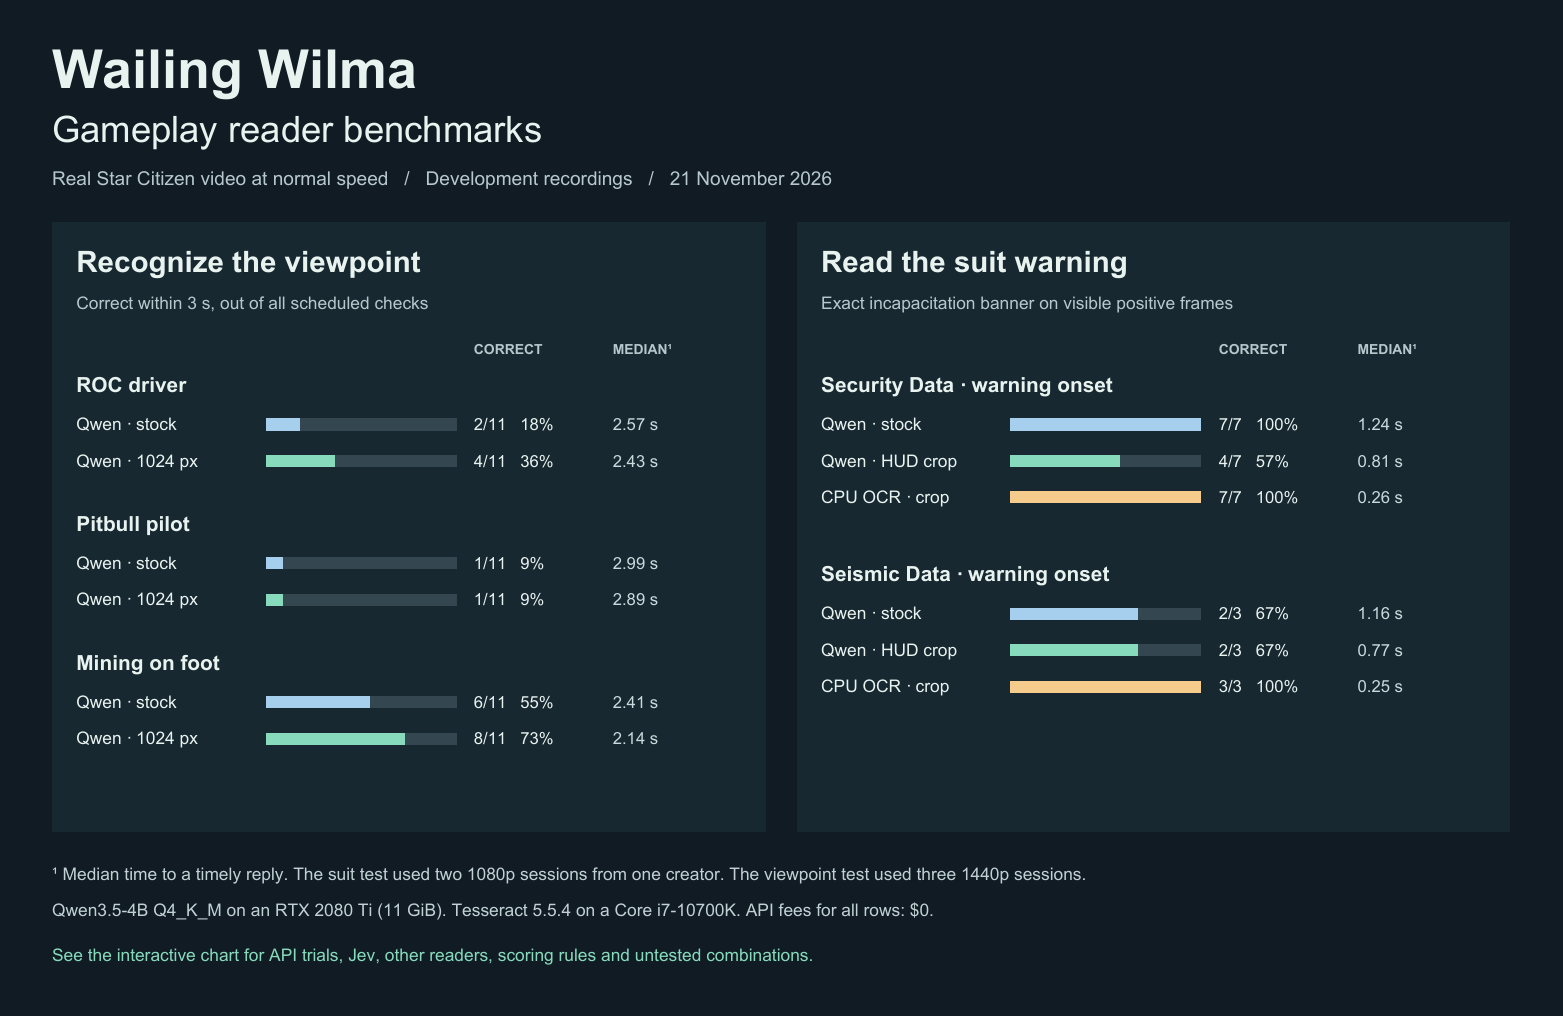
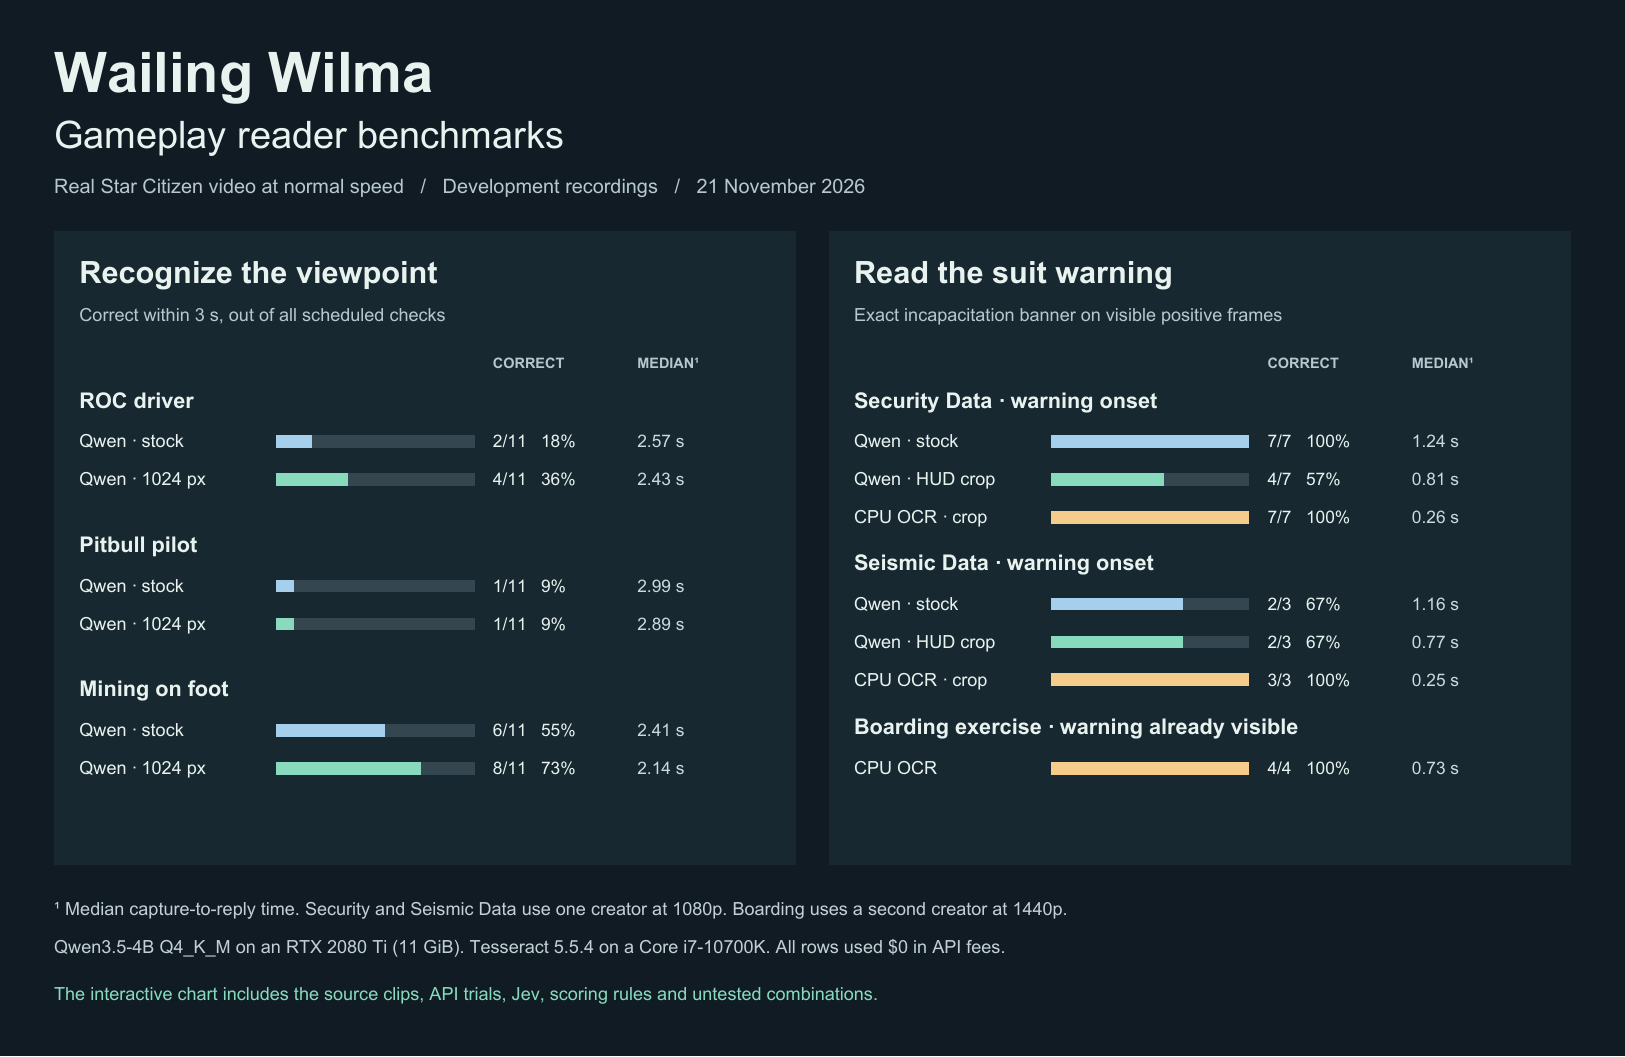
Measure the suit warning on a second recording

diff --git a/tools/reader_chart.html b/tools/reader_chart.html
@@ -36,9 +36,9 @@ const panels = {
   banner: {
     text:"How often did the reader identify the visible “You Are Incapacitated” banner?",
     names:["Qwen, full frame","Qwen, HUD crop","Tesseract, HUD crop"],
-    groups:[["Security Data · warning onset","nov21-pair-onyx-stock","nov21-banner-training-region","nov21-banner-training-ocr"],["Seismic Data · warning onset","nov21-banner-fresh-stock","nov21-banner-fresh-region","nov21-banner-fresh-ocr"]],
+    groups:[["Security Data · warning onset","nov21-pair-onyx-stock","nov21-banner-training-region","nov21-banner-training-ocr"],["Seismic Data · warning onset","nov21-banner-fresh-stock","nov21-banner-fresh-region","nov21-banner-fresh-ocr"],["Boarding exercise · warning already visible",null,null,"nov21-boarding-released-ocr"]],
     den:"scored_count",
-    caption:"¹ Median capture-to-reply on timely checks. Accuracy covers visible positive frames at 1080p. Two recordings from one creator. No live speech was measured. Qwen3.5-4B used an RTX 2080 Ti, Tesseract 5.5.4 used a Core i7-10700K. $0 API fees."
+    caption:"¹ Median capture-to-reply on timely checks. Security and Seismic Data are two 1080p recordings from one creator. Boarding is a second creator at 1440p. Accuracy covers reviewed frames with a visible warning. No live speech was measured. Qwen3.5-4B used an RTX 2080 Ti, Tesseract 5.5.4 used a Core i7-10700K. $0 API fees."
   }
 };
 function draw(key) {

diff --git a/docs/gameplay-tests.md b/docs/gameplay-tests.md
@@ -2,7 +2,7 @@
 
 These runs used real gameplay at normal speed. The tests used 2560 × 1440 unless a result specifies another resolution. Reviewers checked the visible HUD before comparing model replies. The deadline was three seconds per frame unless stated otherwise.
 
-[Download the interactive benchmark chart](https://github.com/Fowlplaychiken/Wailing-Wilma/releases/download/benchmarks-2026-11-21/wilma-reader-results.html) and open it in your browser. It works offline. Search by model, task or reader combination to see the scoring rule, timing, recorded cost and which comparisons still need a run.
+[Download the interactive benchmark chart](https://github.com/Fowlplaychiken/Wailing-Wilma/releases/download/benchmarks-2026-11-21.2/wilma-reader-results.html) and open it in your browser. It works offline. Search by model, task or reader combination to see the scoring rule, timing, recorded cost and which comparisons still need a run.
 
 ![Paired tests on an RTX 2080 Ti and Core i7-10700K. A smaller image helped the local model recognize some viewpoints. CPU OCR read a specific suit banner faster in both tested recordings.](https://raw.githubusercontent.com/Fowlplaychiken/Wailing-Wilma/NewRepo/docs/reader-overview.png)
 
@@ -92,11 +92,19 @@ In Seismic Data the banner was absent at 28:52.500 and visible at 28:52.750. Bot
 
 The CPU reader was tried **after** the Qwen results were known. Its first offer came 3.48–3.74 s after the banner appeared, using a second confirming frame that was 234 ms old. Median reply age was 253 ms. This diagnostic used a known personal HUD layout.
 
-The optional CPU reader in terminal OCR 0.1.80 also checks the adjacent countdown label. Through the released Wilma JPEG client it read 7/7 Security Data warning frames, all nine later frames in that episode, and 3/3 Seismic Data warning frames. Thirteen matching quiet frames stayed quiet. One scheduled quiet frame had different pixels. With two confirmations, Wilma offered the Seismic warning at 28:56.454, 3.70–3.95 s after the banner appeared. On a different creator’s 1440p medical guide it stayed quiet on 22 matching pharmacy menu and instructional-overlay frames. Five generated controls covered an isolated subtitle, teammate text, respawn menu text, an unrelated timer and a centered overlay. None triggered. Performance on a different creator’s actual incapacitation HUD, other languages and live voice delivery remains open. [Medical guide at the pharmacy](https://www.youtube.com/watch?v=U5a8aX0N5NQ&t=128s) · [Instructional overlay](https://www.youtube.com/watch?v=U5a8aX0N5NQ&t=510s)
+The optional CPU reader in terminal OCR 0.1.80 also checks the adjacent countdown label. Through the released Wilma JPEG client it read 7/7 Security Data warning frames, all nine later frames in that episode, and 3/3 Seismic Data warning frames. Thirteen matching quiet frames stayed quiet. One scheduled quiet frame had different pixels. With two confirmations, Wilma offered the Seismic warning at 28:56.454, 3.70–3.95 s after the banner appeared. On a different creator’s 1440p medical guide it stayed quiet on 22 matching pharmacy menu and instructional-overlay frames. Five generated controls covered an isolated subtitle, teammate text, respawn menu text, an unrelated timer and a centered overlay. None triggered. The boarding test below covers a different creator’s incapacitation HUD. Other languages and live voice delivery remain open. [Medical guide at the pharmacy](https://www.youtube.com/watch?v=U5a8aX0N5NQ&t=128s) · [Instructional overlay](https://www.youtube.com/watch?v=U5a8aX0N5NQ&t=510s)
 
 Later in Security Data the banner remained visible through 25:34 and disappeared by 25:36. All three readers detected all nine visible-banner checks and stayed quiet on both subsequent checks. The camera changed and a clinic title followed. The footage establishes when the banner disappeared. Medical recovery remains unknown. All runs used local processing and silent policy replay, with $0 API charges. [Security Data at 25:18](https://www.youtube.com/watch?v=q2YFjZ6XW4s&t=1518s)
 
 A local text-only follow-up used the confirmed CPU warning. The player asked “Wilma, what does my suit say?” and received “Your suit says you are incapacitated.” Asked “Can you tell if help’s on the way?”, Wilma replied “I cannot tell if help is on the way.” A broader “what’s wrong with me?” question sometimes failed to report the known status. The test generated no speech audio and sent no game input. Repeating the exchange with the packaged reader’s confirmed warning produced the same two answers. The first text reply took 28.5 s with the local conversation model initially unloaded. The follow-up took 208 ms.
+
+### Boarding exercise on a second creator’s HUD
+
+In Fried Chicken’s Star Citizen 4.6 recording, the player is down in a stairwell. The suit warning and death countdown stay visible while other players move. Before running OCR, a reviewer marked all seven one-second samples from 13:16 through 13:22 positive. The 1440p video played at normal speed. [Watch from 13:16](https://www.youtube.com/watch?v=M3_c2liJ28g&t=796s)
+
+At Wilma’s two-second cadence, the CPU reader recognized **4/4 matched warning frames** within three seconds. Median time from frame presentation to reply was **727 ms**. The policy offered one warning at **13:18.720**, after two confirmations. The warning was visible when the clip began. Its onset, clearance, false-alarm rate and audible delivery remain unmeasured.
+
+The first pass recognized all three matching frames. The sample at 13:16 landed 17 ms late and was excluded before OCR. A repeat matched all four. A separate pass recognized the three intervening seconds. All passes cover the same incident. The test used Wilma 0.1.80’s JPEG and HTTP reader with Tesseract 5.5.4 on a Core i7-10700K. The final OCR input used pixel-identical BMP over stdin so the footage stayed in memory. Timings include that conversion. API fees were $0.
 
 ## Personal warning false alarms
 

diff --git a/README.md b/README.md
@@ -4,7 +4,7 @@
 
 Wailing Wilma gives you spoken Star Citizen warnings through Wingman AI. It can watch your cockpit, an engineering terminal, a ground vehicle you’re driving or your personal HUD. A second PC can handle the image processing.
 
-**[Download the Windows skill ZIP](https://github.com/Fowlplaychiken/Wailing-Wilma/releases/download/v0.1.80/wailing_wilma-0.1.80.zip)** · [Gameplay test results](docs/gameplay-tests.md) · [Offline benchmark chart](https://github.com/Fowlplaychiken/Wailing-Wilma/releases/download/benchmarks-2026-11-21/wilma-reader-results.html) · [All releases](https://github.com/Fowlplaychiken/Wailing-Wilma/releases)
+**[Download the Windows skill ZIP](https://github.com/Fowlplaychiken/Wailing-Wilma/releases/download/v0.1.80/wailing_wilma-0.1.80.zip)** · [Gameplay test results](docs/gameplay-tests.md) · [Offline benchmark chart](https://github.com/Fowlplaychiken/Wailing-Wilma/releases/download/benchmarks-2026-11-21.2/wilma-reader-results.html) · [All releases](https://github.com/Fowlplaychiken/Wailing-Wilma/releases)
 
 This is a **preview**. Wilma recognized a cooler failure in Hull B footage and missed a power-plant failure on another ship. Keep the game’s instruments and alarms available.
 
